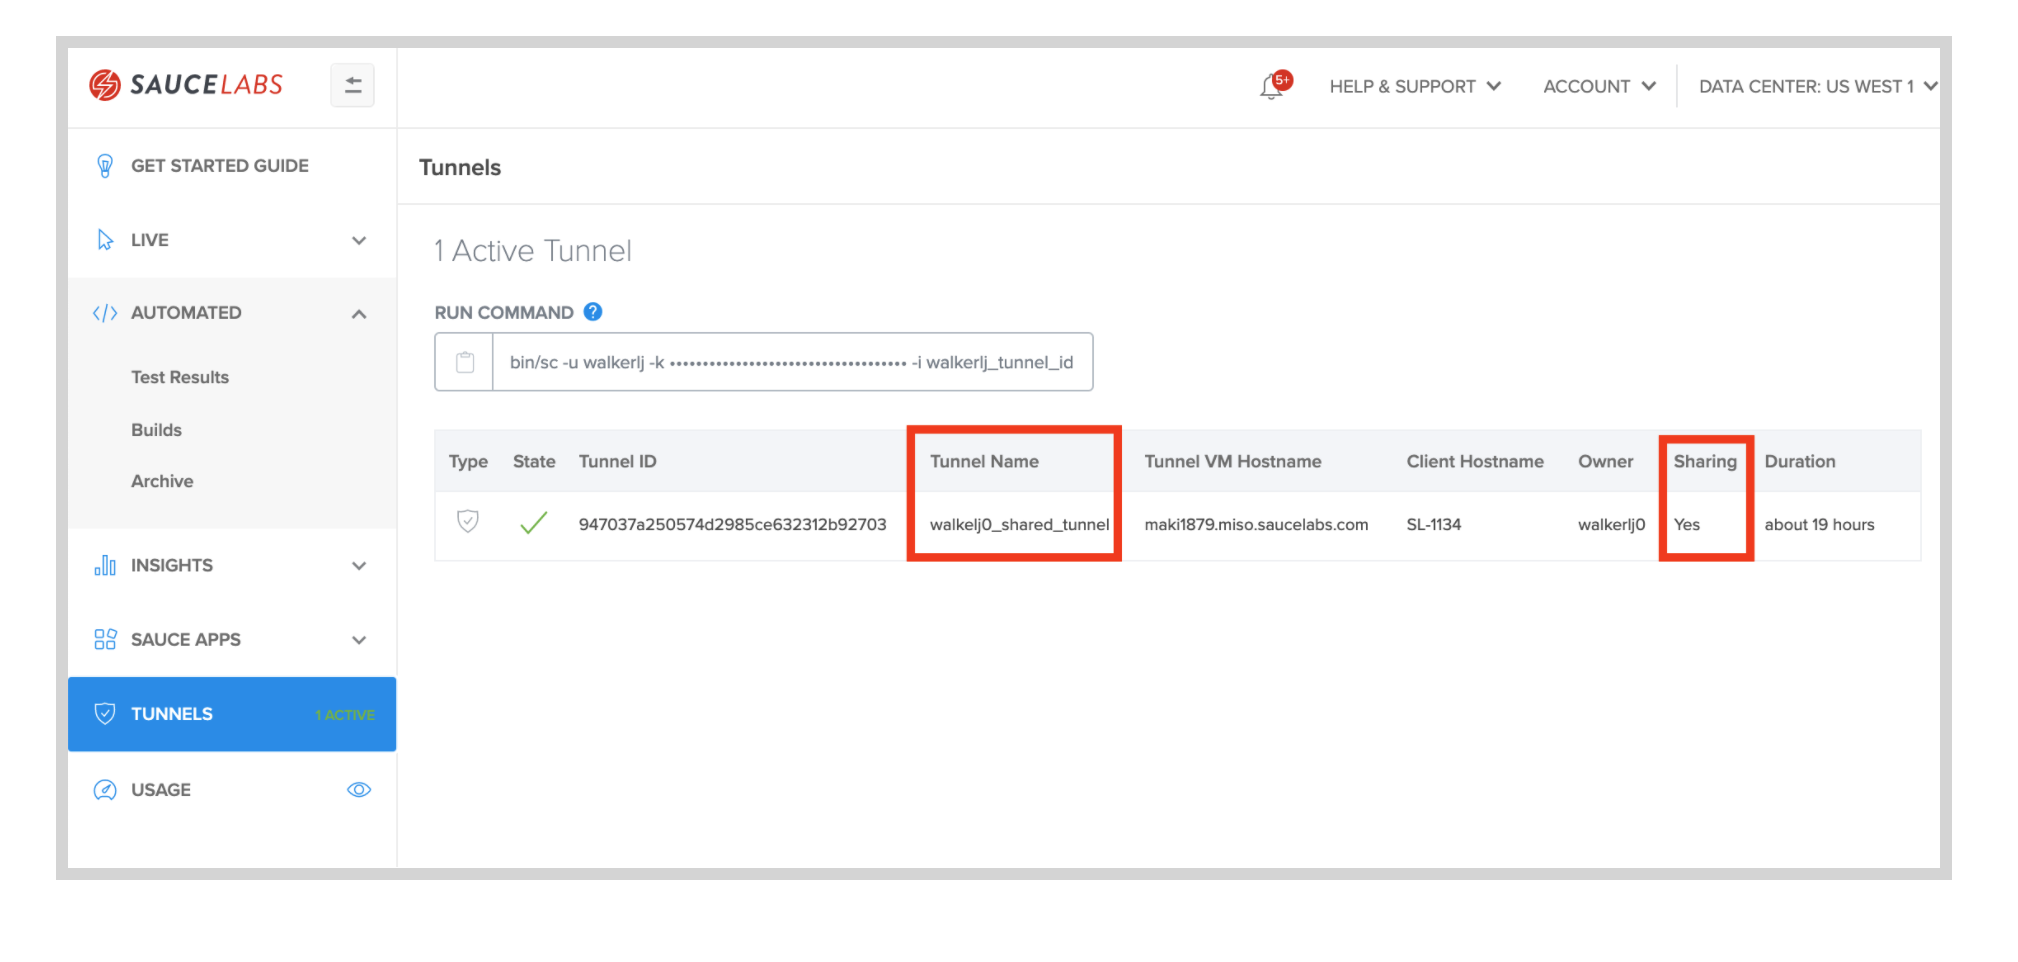
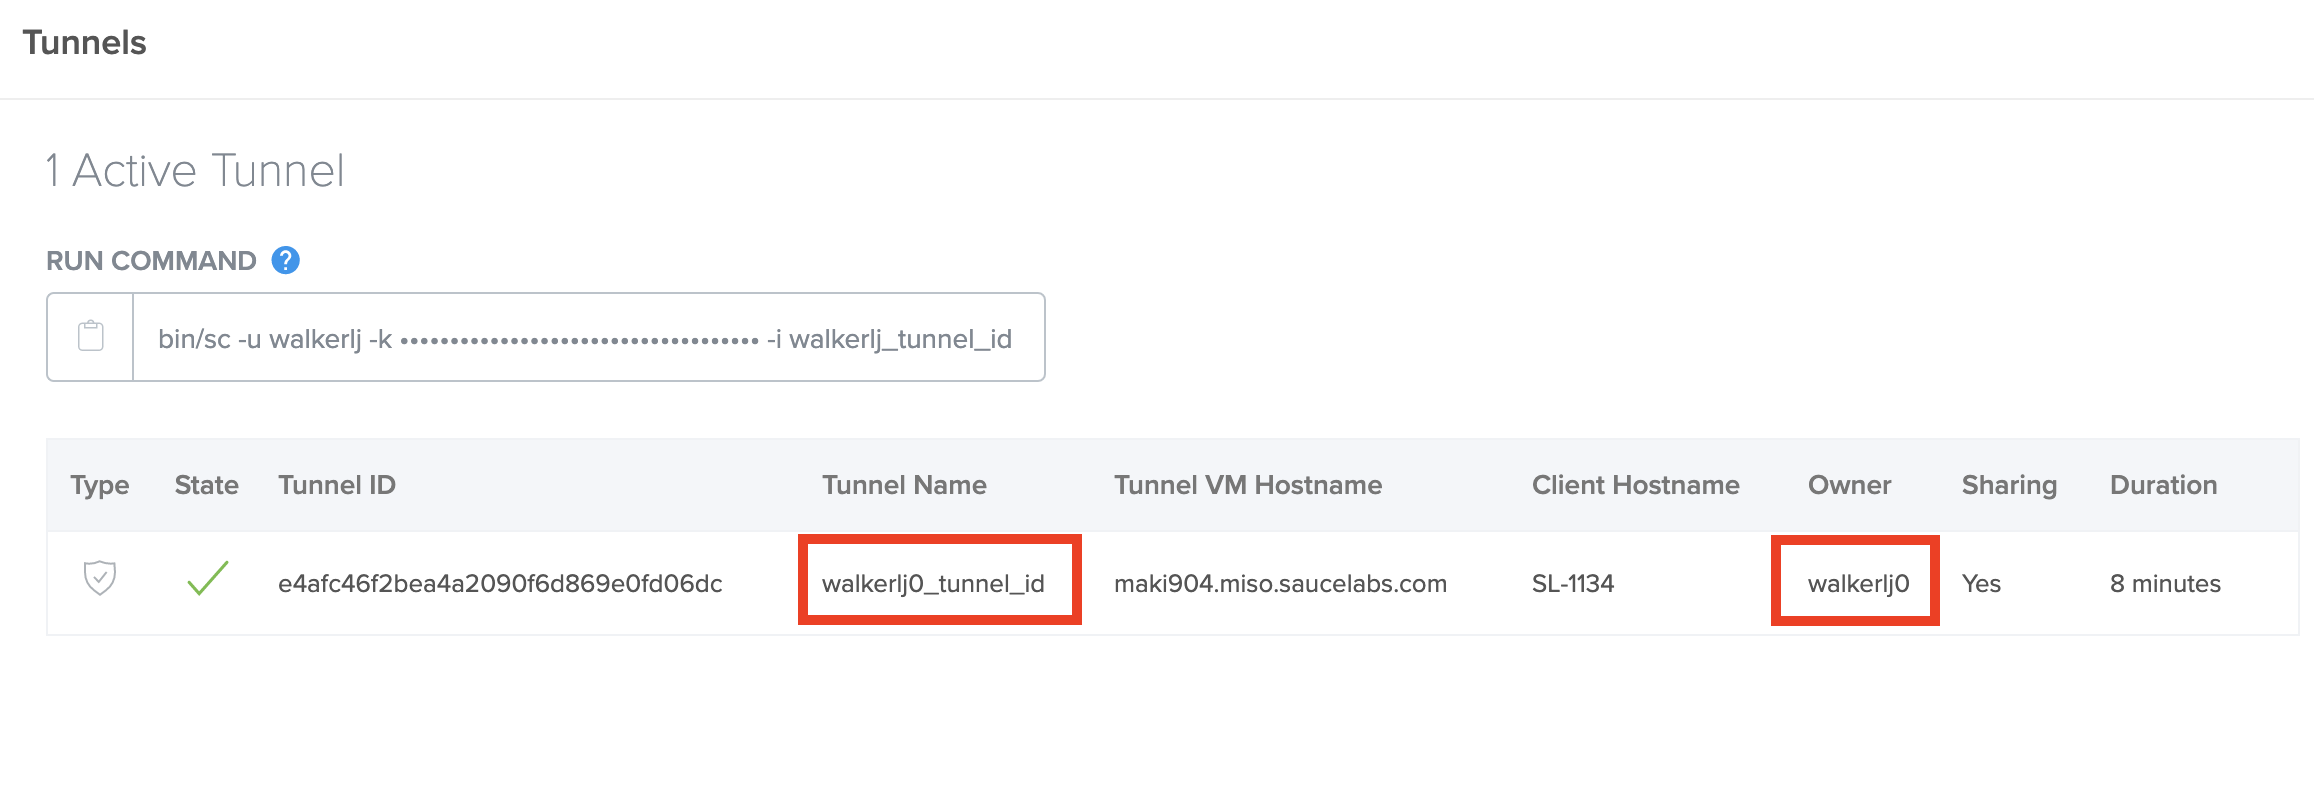
updated 1.02 & te parent tunnel

diff --git a/codelabs/Module1_SauceConnect.md b/codelabs/Module1_SauceConnect.md
@@ -19,32 +19,34 @@ This tutorial gives examples you can follow along with using a test suite writte
 
 ### In This Tutorial
 * Learn to download, setup,  and run the Sauce Connect software on your machine
-* Learn to modify Java test code with JUnit4 test code to run automated tests on Sauce Labs using the secure Sauce Connect Proxy Tunnel
+* Learn to modify Java with JUnit4 test code to run automated tests on Sauce Labs using the secure Sauce Connect Proxy Tunnel
   * See how to add the tunnel name in your capabilities or configuration file
 * Run a tunnel with common flags such as:
   * `-v` for verbose logging
   * `-i` for a tunnel identifier
-* Find the log file & interpret the results
-* Configure the domain (SSL bumping)
+* Locate the log file & interpret the results
+* Configure a domain for special flags such as SSL Bumping
 
 
 
 <!-- ------------------------ -->
 ## 1.02 Install and Setup Sauce Connect Proxy
 
-[Sauce Connect Proxy](https://wiki.saucelabs.com/display/DOCS/Sauce+Connect+Proxy#:~:text=Sauce%20Connect%20Proxy%E2%84%A2%20is,or%20behind%20a%20corporate%20firewall.) is software that enables you to establish a secure connection between applications hosted on an internal server and the Sauce Labs virtual machines (such as Jenkins) or real devices that are used for testing. It also allows you to create a secure connection for uploading tests, application, and source code.
+[Sauce Connect Proxy](https://wiki.saucelabs.com/display/DOCS/Sauce+Connect+Proxy#:~:text=Sauce%20Connect%20Proxy%E2%84%A2%20is,or%20behind%20a%20corporate%20firewall.) is software that enables you to establish a secure connection between applications hosted on an internal server and the Sauce Labs virtual machines (such as Jenkins) or real devices that are used for testing.
 
 #### Video
 [Set Up Sauce Connect Proxy](https://youtu.be/cpBcGeZ_wQU)
 
 <video id="cpBcGeZ_wQU"></video>
 
-In many cases, testers need to run their tests on internal sites. These can be dev/staging versions of their production site or actual internal sites only employees use. In either case, these sites are not available out in the open internet for sauce to access. The best, most secure option is to create a connection with Sauce Connect Proxy. Sauce Connect Proxy uses a proprietary [TLS protocol](https://www.cloudflare.com/learning/ssl/transport-layer-security-tls/) to encrypt traffic between Sauce Labs and your network and servers.
+In many cases, testers need to run their tests on internal sites. These can be dev/staging versions of their production site or actual internal sites only employees use. In either case, these sites are not available out in the open internet for sauce to access.
+
+The option shown here is using Sauce Connect Proxy which uses a proprietary [TLS protocol](https://www.cloudflare.com/learning/ssl/transport-layer-security-tls/) to encrypt traffic between Sauce Labs and your network and servers. [Learn more about Sauce Connect in the whitepaper](https://saucelabs.com/resources/white-papers/sauce-connect-proxy-security-overview).  
 
 
 ### Download Sauce Connect Proxy
 
-The first step is to download The Sauce Connect Proxy software -- available on the **[Sauce Connect Proxy](https://wiki.saucelabs.com/display/DOCSDEV/Sauce+Connect+Proxy)** page in the Sauce Labs Cookbook -- and extract the contents of the **.zip** or **.gz** download package. You can also get the software on the [Sauce Labs](https://accounts.saucelabs.com/am/XUI/#login/?utm_source=referral&utm_medium=LMS&utm_campaign=link) platform under **Tunnels.**
+The first step is to download The Sauce Connect Proxy software -- available on the **[Sauce Connect Proxy](https://docs.saucelabs.com/secure-connections/index.html)** page in the Sauce Labs Docs -- and extract the contents of the **.zip** or **.gz** download package. You can also get the software on the [Sauce Labs](https://accounts.saucelabs.com/am/XUI/#login/?utm_source=referral&utm_medium=LMS&utm_campaign=link) platform under **Tunnels.**
 
 
 <img src="assets/5.03A.png" alt="Tunnels Software" width="750"/>
@@ -92,14 +94,18 @@ bin/ sc -u <SAUCE_USERNAME> -k <SAUCE_ACCESS_KEY> -i <SAUCE_TUNNEL>
 
 <img src="assets/5.03G.png" alt="Tunnel running on Sauce Labs" width="750"/>
 
+#### Note
+Negative
+: If you have trouble running your tunnel, you may need to update your firewall settings to [allow outbound traffic on port 443](https://docs.saucelabs.com/secure-connections/sauce-connect/faq/index.html#what-outbound-ports-do-i-need-open-for-sauce-connect-proxy) or configure Sauce Connect Proxy with a proxy that can reach the `saucelabs.com` domain, using the --proxy or --pac command line options
 
 ### Shared Tunnels
 
  Many companies may also choose to have their organization set up _Shared Tunnels_ on Sauce Labs, which anyone in their organization can use without having to worry about configuring their own tunnel.
 
- To use a parent tunnel simply check the **Tunnels** tab on your Sauce Labs app to see your shared tunnels. You should be able to see the shared tunnel name, as well as an indication that it is in fact a shared tunnel, then use that ad the `tunnel-id` in your test suite:
+ To use a shared tunnel simply check the **Tunnels** tab on your Sauce Labs app to see your shared tunnels you have access to. You should be able to see the shared tunnel name, the name of the owner of the tunnel as well as an indication that it is in fact a shared tunnel, then use the `tunnelIdenifier` as the `parentTunnel` in your test suites' capabilities:
 
  <img src="assets/TRT2.03C.png" alt="Shared Runnel" width="650"/>
+ <img src="assets/TRT2.03D.png" alt="Shared Runnel" width="650"/>
 
 
 

diff --git a/codelabs/Module5_SeleniumJS.md b/codelabs/Module5_SeleniumJS.md
@@ -115,7 +115,7 @@ In many cases, testers need to run their tests on internal sites. These can be d
 
 ### Download Sauce Connect Proxy
 
-The first step is to download The Sauce Connect Proxy software -- available on the **[Sauce Connect Proxy](https://wiki.saucelabs.com/display/DOCSDEV/Sauce+Connect+Proxy)** page in the Sauce Labs Cookbook -- and extract the contents of the **.zip** or **.gz** download package. You can also get the software on the [Sauce Labs](https://accounts.saucelabs.com/am/XUI/#login/?utm_source=referral&utm_medium=LMS&utm_campaign=link) platform under **Tunnels.**
+The first step is to download The Sauce Connect Proxy software -- available on the **[Sauce Connect Proxy](https://docs.saucelabs.com/secure-connections/index.html)** page in the Sauce Labs Cookbook -- and extract the contents of the **.zip** or **.gz** download package. You can also get the software on the [Sauce Labs](https://accounts.saucelabs.com/am/XUI/#login/?utm_source=referral&utm_medium=LMS&utm_campaign=link) platform under **Tunnels.**
 
 
 <img src="assets/5.03A.png" alt="Tunnels Software" width="750"/>

diff --git a/codelabs/Module5_SeleniumJava.md b/codelabs/Module5_SeleniumJava.md
@@ -115,7 +115,7 @@ In many cases, testers need to run their tests on internal sites. These can be d
 
 ### Download Sauce Connect Proxy
 
-The first step is to download The Sauce Connect Proxy software -- available on the **[Sauce Connect Proxy](https://wiki.saucelabs.com/display/DOCSDEV/Sauce+Connect+Proxy)** page in the Sauce Labs Cookbook -- and extract the contents of the **.zip** or **.gz** download package. You can also get the software on the [Sauce Labs](https://accounts.saucelabs.com/am/XUI/#login/?utm_source=referral&utm_medium=LMS&utm_campaign=link) platform under **Tunnels.**
+The first step is to download The Sauce Connect Proxy software -- available on the **[Sauce Connect Proxy](https://docs.saucelabs.com/secure-connections/index.html)** page in the Sauce Labs Cookbook -- and extract the contents of the **.zip** or **.gz** download package. You can also get the software on the [Sauce Labs](https://accounts.saucelabs.com/am/XUI/#login/?utm_source=referral&utm_medium=LMS&utm_campaign=link) platform under **Tunnels.**
 
 
 <img src="assets/5.03A.png" alt="Tunnels Software" width="750"/>

diff --git a/codelabs/Module5_SeleniumPython.md b/codelabs/Module5_SeleniumPython.md
@@ -121,7 +121,7 @@ In many cases, testers need to run their tests on internal sites. These can be d
 
 ### Download Sauce Connect Proxy
 
-The first step is to download The Sauce Connect Proxy software -- available on the **[Sauce Connect Proxy](https://wiki.saucelabs.com/display/DOCSDEV/Sauce+Connect+Proxy)** page in the Sauce Labs Cookbook -- and extract the contents of the **.zip** or **.gz** download package. You can also get the software on the [Sauce Labs](https://accounts.saucelabs.com/am/XUI/#login/?utm_source=referral&utm_medium=LMS&utm_campaign=link) platform under **Tunnels.**
+The first step is to download The Sauce Connect Proxy software -- available on the **[Sauce Connect Proxy](https://docs.saucelabs.com/secure-connections/index.html)** page in the Sauce Labs Cookbook -- and extract the contents of the **.zip** or **.gz** download package. You can also get the software on the [Sauce Labs](https://accounts.saucelabs.com/am/XUI/#login/?utm_source=referral&utm_medium=LMS&utm_campaign=link) platform under **Tunnels.**
 
 
 <img src="assets/5.03A.png" alt="Tunnels Software" width="750"/>
